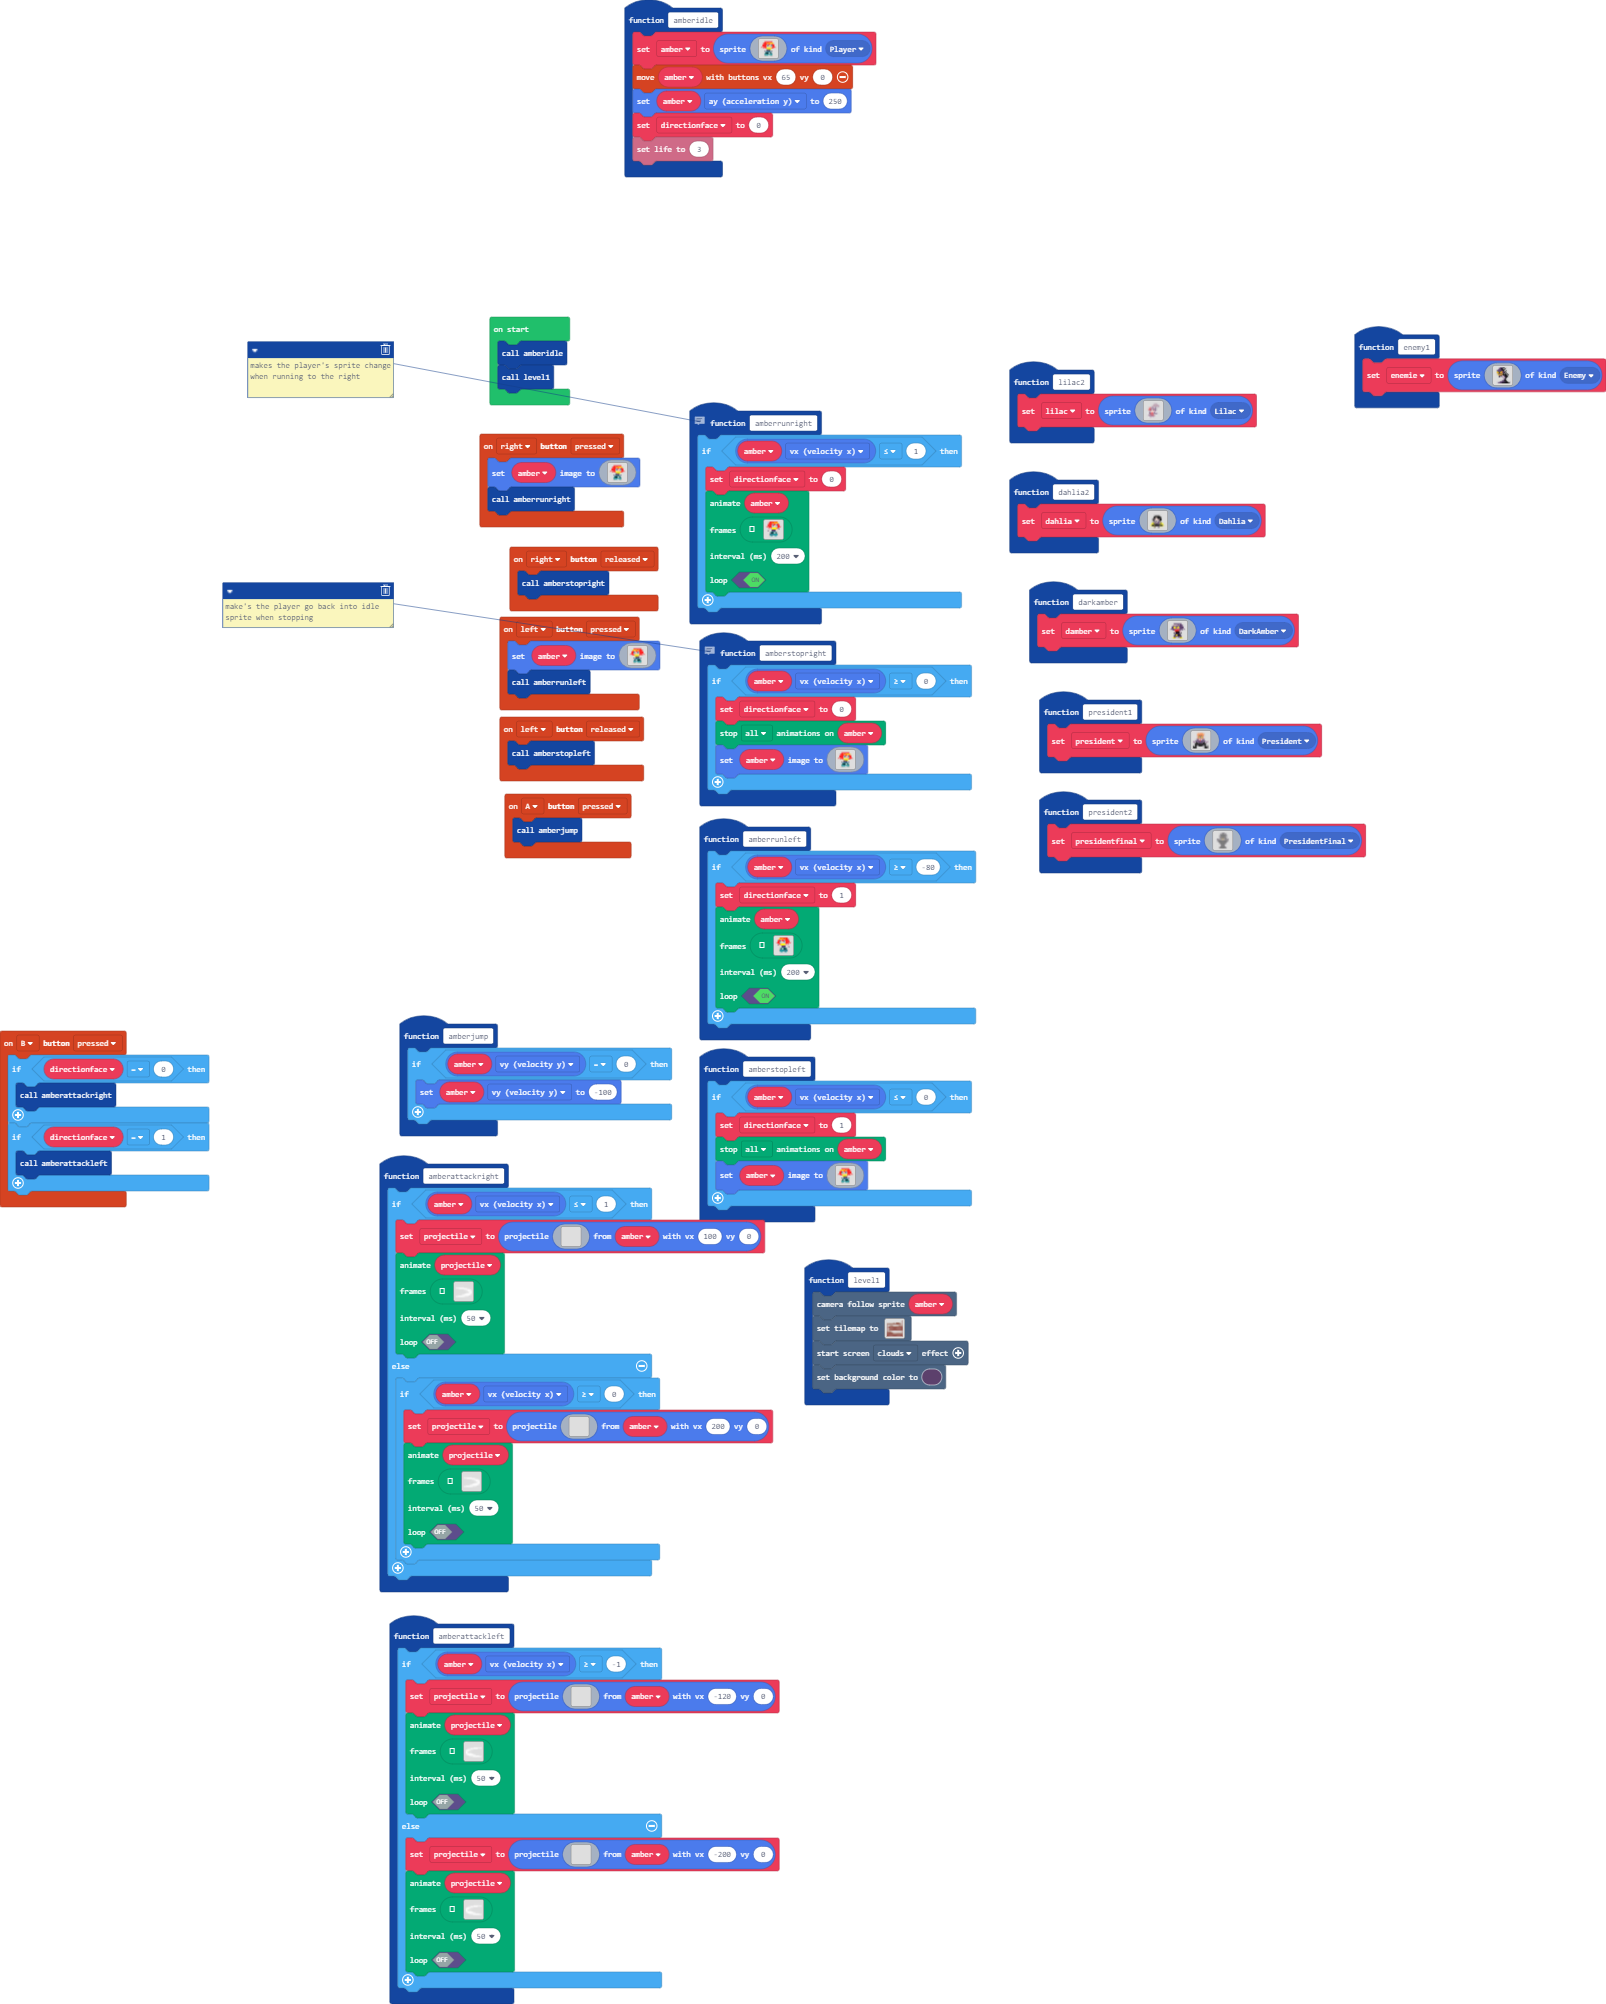
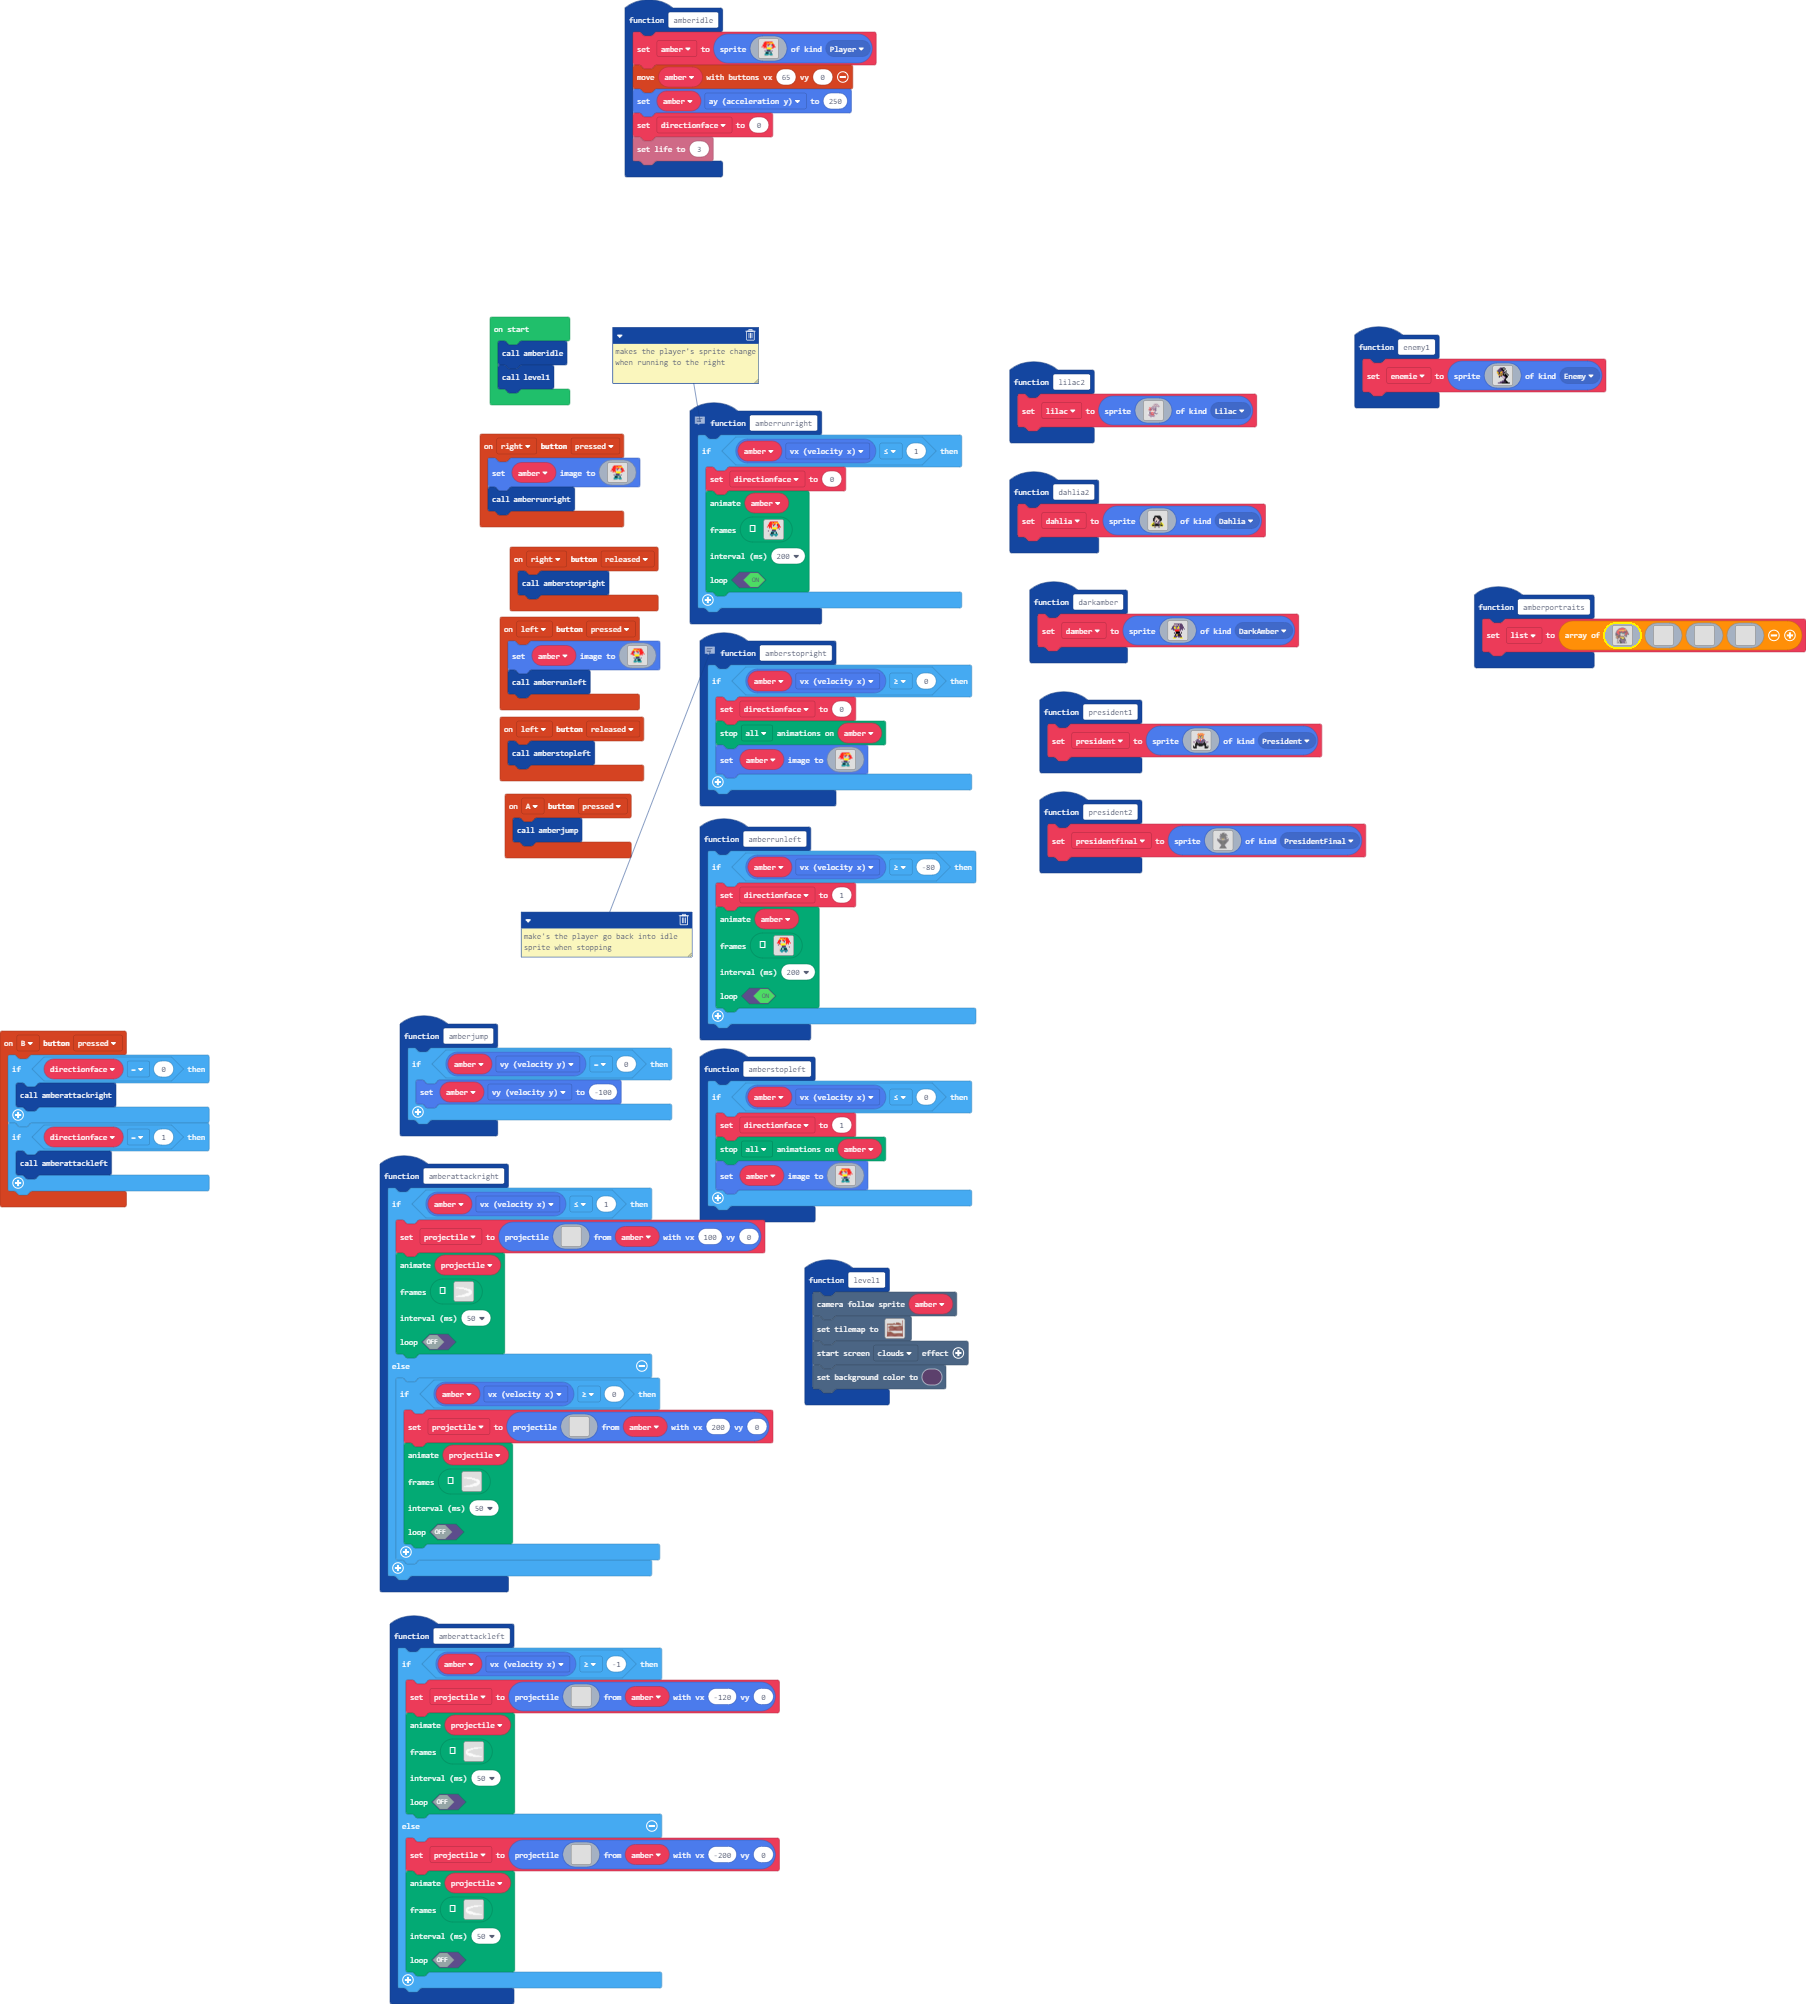
Update main.blocks, main.ts

diff --git a/main.ts b/main.ts
@@ -83,25 +83,110 @@ e e e e e e e e e e e e e e e e
 6 6 9 9 6 6 1 1 6 6 9 9 6 6 1 1 
 `
 }
-function enemy1 () {
-    enemie = sprites.create(img`
-. . . . . c c c f f . . . . . . 
-. . . . c c f f . . f . . . . . 
-. . . c c c c f f f . . . . . . 
-. . c c c c c c f . . f . . . . 
-. . 5 c c c 5 4 c c f . . . . . 
-. . 4 5 f 5 4 c c f . f . . . . 
-. . . c c c c 5 f . f . f . . . 
-. . . 5 4 5 4 c f f f f . f . . 
-. . . . c c f . b c f f f . . . 
-. . . . f . . b 1 b c f f . . . 
-. . . . . . . . b 1 c f . . . . 
-. . . . . . . . . c f . . . . . 
-. . . . . . . . . c f . . . . . 
-. . . . . . . c c f f f . . . . 
-. . . . . c c c c c c f f . . . 
-. . . c c c c f f f f f f f f . 
-`, SpriteKind.Enemy)
+function amberportraits () {
+    list = [img`
+. . . . . . . . . . . . . . . . . . . . . . . . . . . . . . . . . . . . . . . . . . . . . . . . . . 
+. . . . . . . . . . . . . . . . . . . . . f f f f f f f f . . . . . . . . . . . . . . . . . . . . . 
+. . . . . . . . . . . . . . . . . f f f f c 2 2 2 2 2 2 c f f f . . . . . . . . . . . . . . . . . . 
+. . . . . . . . . . . . . . . f f c 2 2 2 2 2 2 2 2 2 2 2 2 2 c f f . . . . . . . . . . . . . . . . 
+. . . . . . . . . . . . . f f c 2 2 2 2 2 2 2 2 2 2 2 2 2 2 2 2 2 c f . . . . . . . . . . . . . . . 
+. . . . . . . . . . . . f c 2 2 2 2 2 2 2 2 2 2 2 2 2 2 2 2 2 2 2 2 4 f . . . . . . . . . . . . . . 
+. . . . . . . . . . . f c 2 2 2 2 2 2 2 2 2 2 2 2 2 2 2 2 2 2 2 2 2 5 4 f . . . . . . . . . . . . . 
+. . . . . . . . . . f c 2 2 2 2 2 2 2 2 2 2 2 2 2 2 2 2 2 2 2 2 4 5 5 5 4 f . . . . . . . . . . . . 
+. . . . . . . . . f c 2 2 2 2 2 2 2 2 2 2 2 2 2 2 2 4 5 5 5 5 5 5 5 5 5 5 4 f . . . . . . . . . . . 
+. . . . . . . . f c 2 2 4 5 5 4 5 5 4 5 5 5 4 5 5 5 5 5 5 5 5 c 5 4 4 c 2 2 f . . . . . . . . . . . 
+. . . . . . . f c c 2 2 2 2 5 4 5 5 4 5 5 5 4 5 5 5 5 4 4 4 4 f 2 2 2 2 f 2 c f . . . . . . . . . . 
+. . . . . . . f c 2 2 2 2 2 2 2 c 2 2 2 2 2 c 2 2 2 2 2 2 2 c f 2 c 2 2 f 2 2 f . . . . . . . . . . 
+. . . . . . f c 2 2 2 2 2 2 2 2 f 2 2 2 2 2 c c 2 2 2 2 2 2 f c 2 c c 2 2 f 2 c f . . . . . . . . . 
+. . . . . . f c 2 2 2 2 2 2 2 c f c 2 2 c c f c c 2 2 2 2 c f c 2 f c c c f 2 2 f . . . . . . . . . 
+. . . . . f c 2 2 2 2 2 2 2 2 f c c c c c f b f c 2 2 2 2 f c c 2 f f f c c f 2 c f . . . . . . . . 
+. . . . . f c 2 2 2 2 2 2 2 c f c c c f f b d f c c 2 2 c f c c c f c c f f f 2 2 f . . . . . . . . 
+. . . . f c c 2 2 2 2 2 2 2 f c c f f f b f f b f c 2 c f f f c c f c c 2 2 2 2 2 c f . . . . . . . 
+. . . . f c c c 2 2 2 2 2 2 f f f f b d f 9 9 f f c c c f 9 f f c f c 2 2 2 c 2 2 2 f . . . . . . . 
+. . . . f c c c 2 2 c 2 2 2 2 2 2 f d f 9 9 f 9 b f c f 9 f 9 f f c 2 2 2 2 c c 2 2 c f . . . . . . 
+. . . f c c c f 2 2 c 2 2 2 2 2 c f f 9 1 1 f 9 d f c f 9 f 9 9 f c 2 2 2 2 f c c 2 2 f . . . . . . 
+. . . f c c c f c 2 c c 2 2 2 2 f b f 1 1 1 6 1 d d f d 9 6 1 1 f c 2 2 2 2 f f c c c c f . . . . . 
+. . . f c c f c c c f c 2 2 2 2 f b f 1 1 1 7 1 d d d d 1 7 1 1 f c 2 2 2 2 f . f f c c f . . . . . 
+. . . f f f f c c c f c 2 2 2 2 f b d f f 1 1 d d d 4 4 d 1 1 f c c 2 2 2 2 f . . . f f f . . . . . 
+. . . . . f f c c c f c c 2 2 c f b d d d d d d d d d d 4 d d f c c 2 2 2 c f . . . . . . . . . . . 
+. . . . f 4 f c c f 4 f c c c f f c b d d d d d d d d d d d d b f c c 2 2 c f . . . . . . . . . . . 
+. . . f 4 4 f c f 4 4 f c c c f f f c b d d d c d d d d d d b f f c c c c c f . . . . . . . . . . . 
+. . . . f 4 4 f 4 f 4 f c c c f f 4 f c b d d d f f c d d b f . . f c c c f . . . . . . . . . . . . 
+. . . . . f 4 4 4 4 f f f c c f f 4 4 f f c b d d d d d b f . . . . f c c f . . . . . . . . . . . . 
+. . . . . . f f 4 4 4 4 f c f f 4 f 4 4 4 f f c b b b f f f . . . . . f c f . . . . . . . . . . . . 
+. . . . . . . . f f f f f c f f 4 4 f 4 5 5 4 f f f f 4 4 4 f . . . . . f f . . . . . . . . . . . . 
+. . . . . . f f 4 4 4 4 4 f f f 4 4 4 f f 4 5 5 4 f f f f 4 4 f . . . . . f . . . . . . . . . . . . 
+. . . . . f 4 4 4 4 f f f f f c f 4 4 4 4 f 4 5 5 5 5 5 5 4 4 f . . . . . . . . . . . . . . . . . . 
+. . . . f 4 4 4 4 f 4 4 f c b b c f 4 4 5 5 5 5 5 5 5 5 4 4 f f . . . . . . . . . . . . . . . . . . 
+. . . . . f f 4 4 4 4 f c b d d b c f f 4 5 5 5 5 5 5 5 5 5 4 f . . . . . . . . . . . . . . . . . . 
+. . . . . . . f f f f f b d d d d b f f f f 4 5 5 5 5 5 5 4 f f f . . . . . . . . . . . . . . . . . 
+. . . . . . . . . . f c b d d d d b f f f f f f 4 5 5 5 4 f f f c f . . . . . . . . . . . . . . . . 
+. . . . . . . . . . f b d d d d d b c f f c f b f f f f f f f c f c f . . . . . . . . . . . . . . . 
+. . . . . . . . . . f b d d d d b c c f c c c f b b b b b f c c f c f . . . . . . . . . . . . . . . 
+. . . . . . . . . . f b d d d d b f c f c c c c f f f f f f c c c f f . . . . . . . . . . . . . . . 
+. . . . . . . . . f c d d d d b f c f c c c c c c c c c c c c c c f f . . . . . . . . . . . . . . . 
+. . . . . . . . . f b d d d d c f f f c c c c c c c c c c c c c c f c f . . . . . . . . . . . . . . 
+. . . . . . . . . f b d d d b f f f f c c c c c c c c c c c c c f c b f . . . . . . . . . . . . . . 
+. . . . . . . . . f d d d d f . f f f f c c c c c c c c c c c f c b d f . . . . . . . . . . . . . . 
+. . . . . . . . . f d d d b f . . f f f c c c c c c c c c c c f b d d f . . . . . . . . . . . . . . 
+. . . . . . . . f c d d d c f . . f f f f c c c c c c c c c f c b d d c f . . . . . . . . . . . . . 
+. . . . . . . . f b d d d f . . . . f f f f f c c c c c c c f c b d d d f . . . . . . . . . . . . . 
+. . . . . . . . f b d d b f . . . . f f f f c c c c c c c c c f c d d d f . . . . . . . . . . . . . 
+. . . . . . . . f b d d c f . . . f f f f f c c c c c c c c c f c b d d f . . . . . . . . . . . . . 
+. . . . . . . . f b b b f . . . . f f f f f f c c c c c c c c c f c b d c f . . . . . . . . . . . . 
+. . . . . . . . f c b c f . . . f f f f f f f f f c c c c c c f f f c b d f . . . . . . . . . . . . 
+`, img`
+. . . . . . . . . . . . . . . . 
+. . . . . . . . . . . . . . . . 
+. . . . . . . . . . . . . . . . 
+. . . . . . . . . . . . . . . . 
+. . . . . . . . . . . . . . . . 
+. . . . . . . . . . . . . . . . 
+. . . . . . . . . . . . . . . . 
+. . . . . . . . . . . . . . . . 
+. . . . . . . . . . . . . . . . 
+. . . . . . . . . . . . . . . . 
+. . . . . . . . . . . . . . . . 
+. . . . . . . . . . . . . . . . 
+. . . . . . . . . . . . . . . . 
+. . . . . . . . . . . . . . . . 
+. . . . . . . . . . . . . . . . 
+. . . . . . . . . . . . . . . . 
+`, img`
+. . . . . . . . . . . . . . . . 
+. . . . . . . . . . . . . . . . 
+. . . . . . . . . . . . . . . . 
+. . . . . . . . . . . . . . . . 
+. . . . . . . . . . . . . . . . 
+. . . . . . . . . . . . . . . . 
+. . . . . . . . . . . . . . . . 
+. . . . . . . . . . . . . . . . 
+. . . . . . . . . . . . . . . . 
+. . . . . . . . . . . . . . . . 
+. . . . . . . . . . . . . . . . 
+. . . . . . . . . . . . . . . . 
+. . . . . . . . . . . . . . . . 
+. . . . . . . . . . . . . . . . 
+. . . . . . . . . . . . . . . . 
+. . . . . . . . . . . . . . . . 
+`, img`
+. . . . . . . . . . . . . . . . 
+. . . . . . . . . . . . . . . . 
+. . . . . . . . . . . . . . . . 
+. . . . . . . . . . . . . . . . 
+. . . . . . . . . . . . . . . . 
+. . . . . . . . . . . . . . . . 
+. . . . . . . . . . . . . . . . 
+. . . . . . . . . . . . . . . . 
+. . . . . . . . . . . . . . . . 
+. . . . . . . . . . . . . . . . 
+. . . . . . . . . . . . . . . . 
+. . . . . . . . . . . . . . . . 
+. . . . . . . . . . . . . . . . 
+. . . . . . . . . . . . . . . . 
+. . . . . . . . . . . . . . . . 
+. . . . . . . . . . . . . . . . 
+`]
 }
 function level1 () {
     scene.cameraFollowSprite(amber)
@@ -415,6 +500,26 @@ function amberidle () {
     amber.ay = 250
     directionface = 0
     info.setLife(3)
+}
+function enemy1 () {
+    enemie = sprites.create(img`
+. . . . . c c c f f . . . . . . 
+. . . . c c f f . . f . . . . . 
+. . . c c c c f f f . . . . . . 
+. . c c c c c c f . . f . . . . 
+. . 5 c c c 5 4 c c f . . . . . 
+. . 4 5 f 5 4 c c f . f . . . . 
+. . . c c c c 5 f . f . f . . . 
+. . . 5 4 5 4 c f f f f . f . . 
+. . . . c c f . b c f f f . . . 
+. . . . f . . b 1 b c f f . . . 
+. . . . . . . . b 1 c f . . . . 
+. . . . . . . . . c f . . . . . 
+. . . . . . . . . c f . . . . . 
+. . . . . . . c c f f f . . . . 
+. . . . . c c c c c c f f . . . 
+. . . c c c c f f f f f f f f . 
+`, SpriteKind.Enemy)
 }
 function president2 () {
     presidentfinal = sprites.create(img`
@@ -1028,10 +1133,11 @@ let dahlia: Sprite = null
 let damber: Sprite = null
 let lilac: Sprite = null
 let presidentfinal: Sprite = null
+let enemie: Sprite = null
 let projectile: Sprite = null
 let directionface = 0
 let president: Sprite = null
 let amber: Sprite = null
-let enemie: Sprite = null
+let list: Image[] = []
 amberidle()
 level1()
